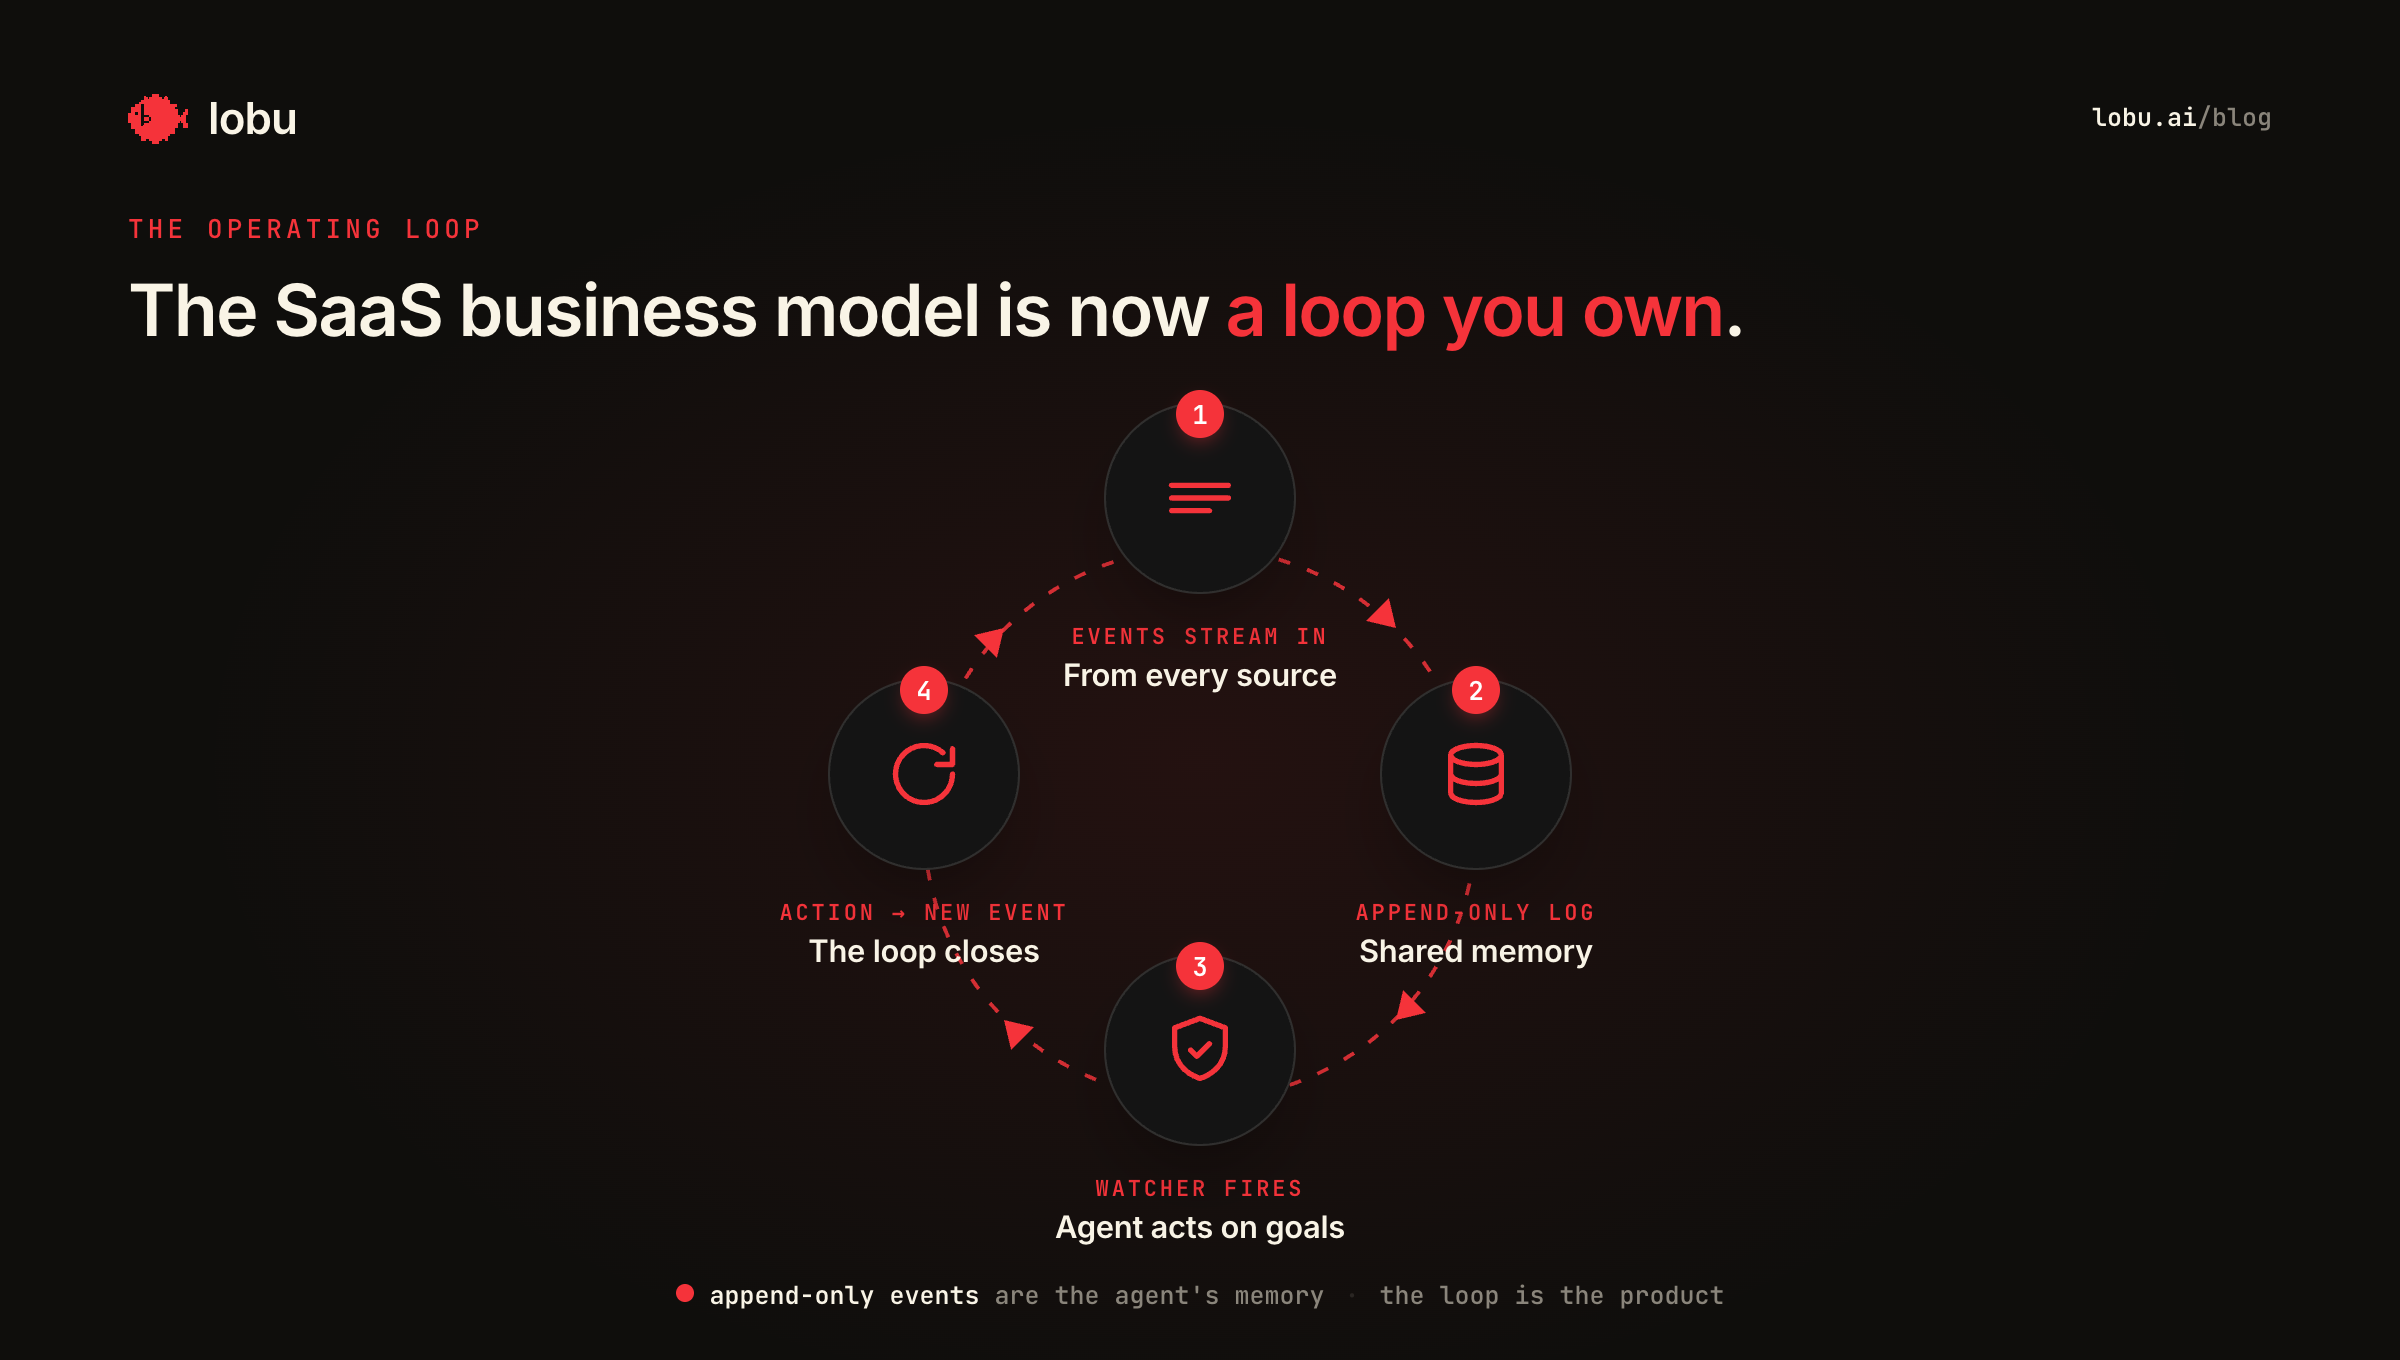
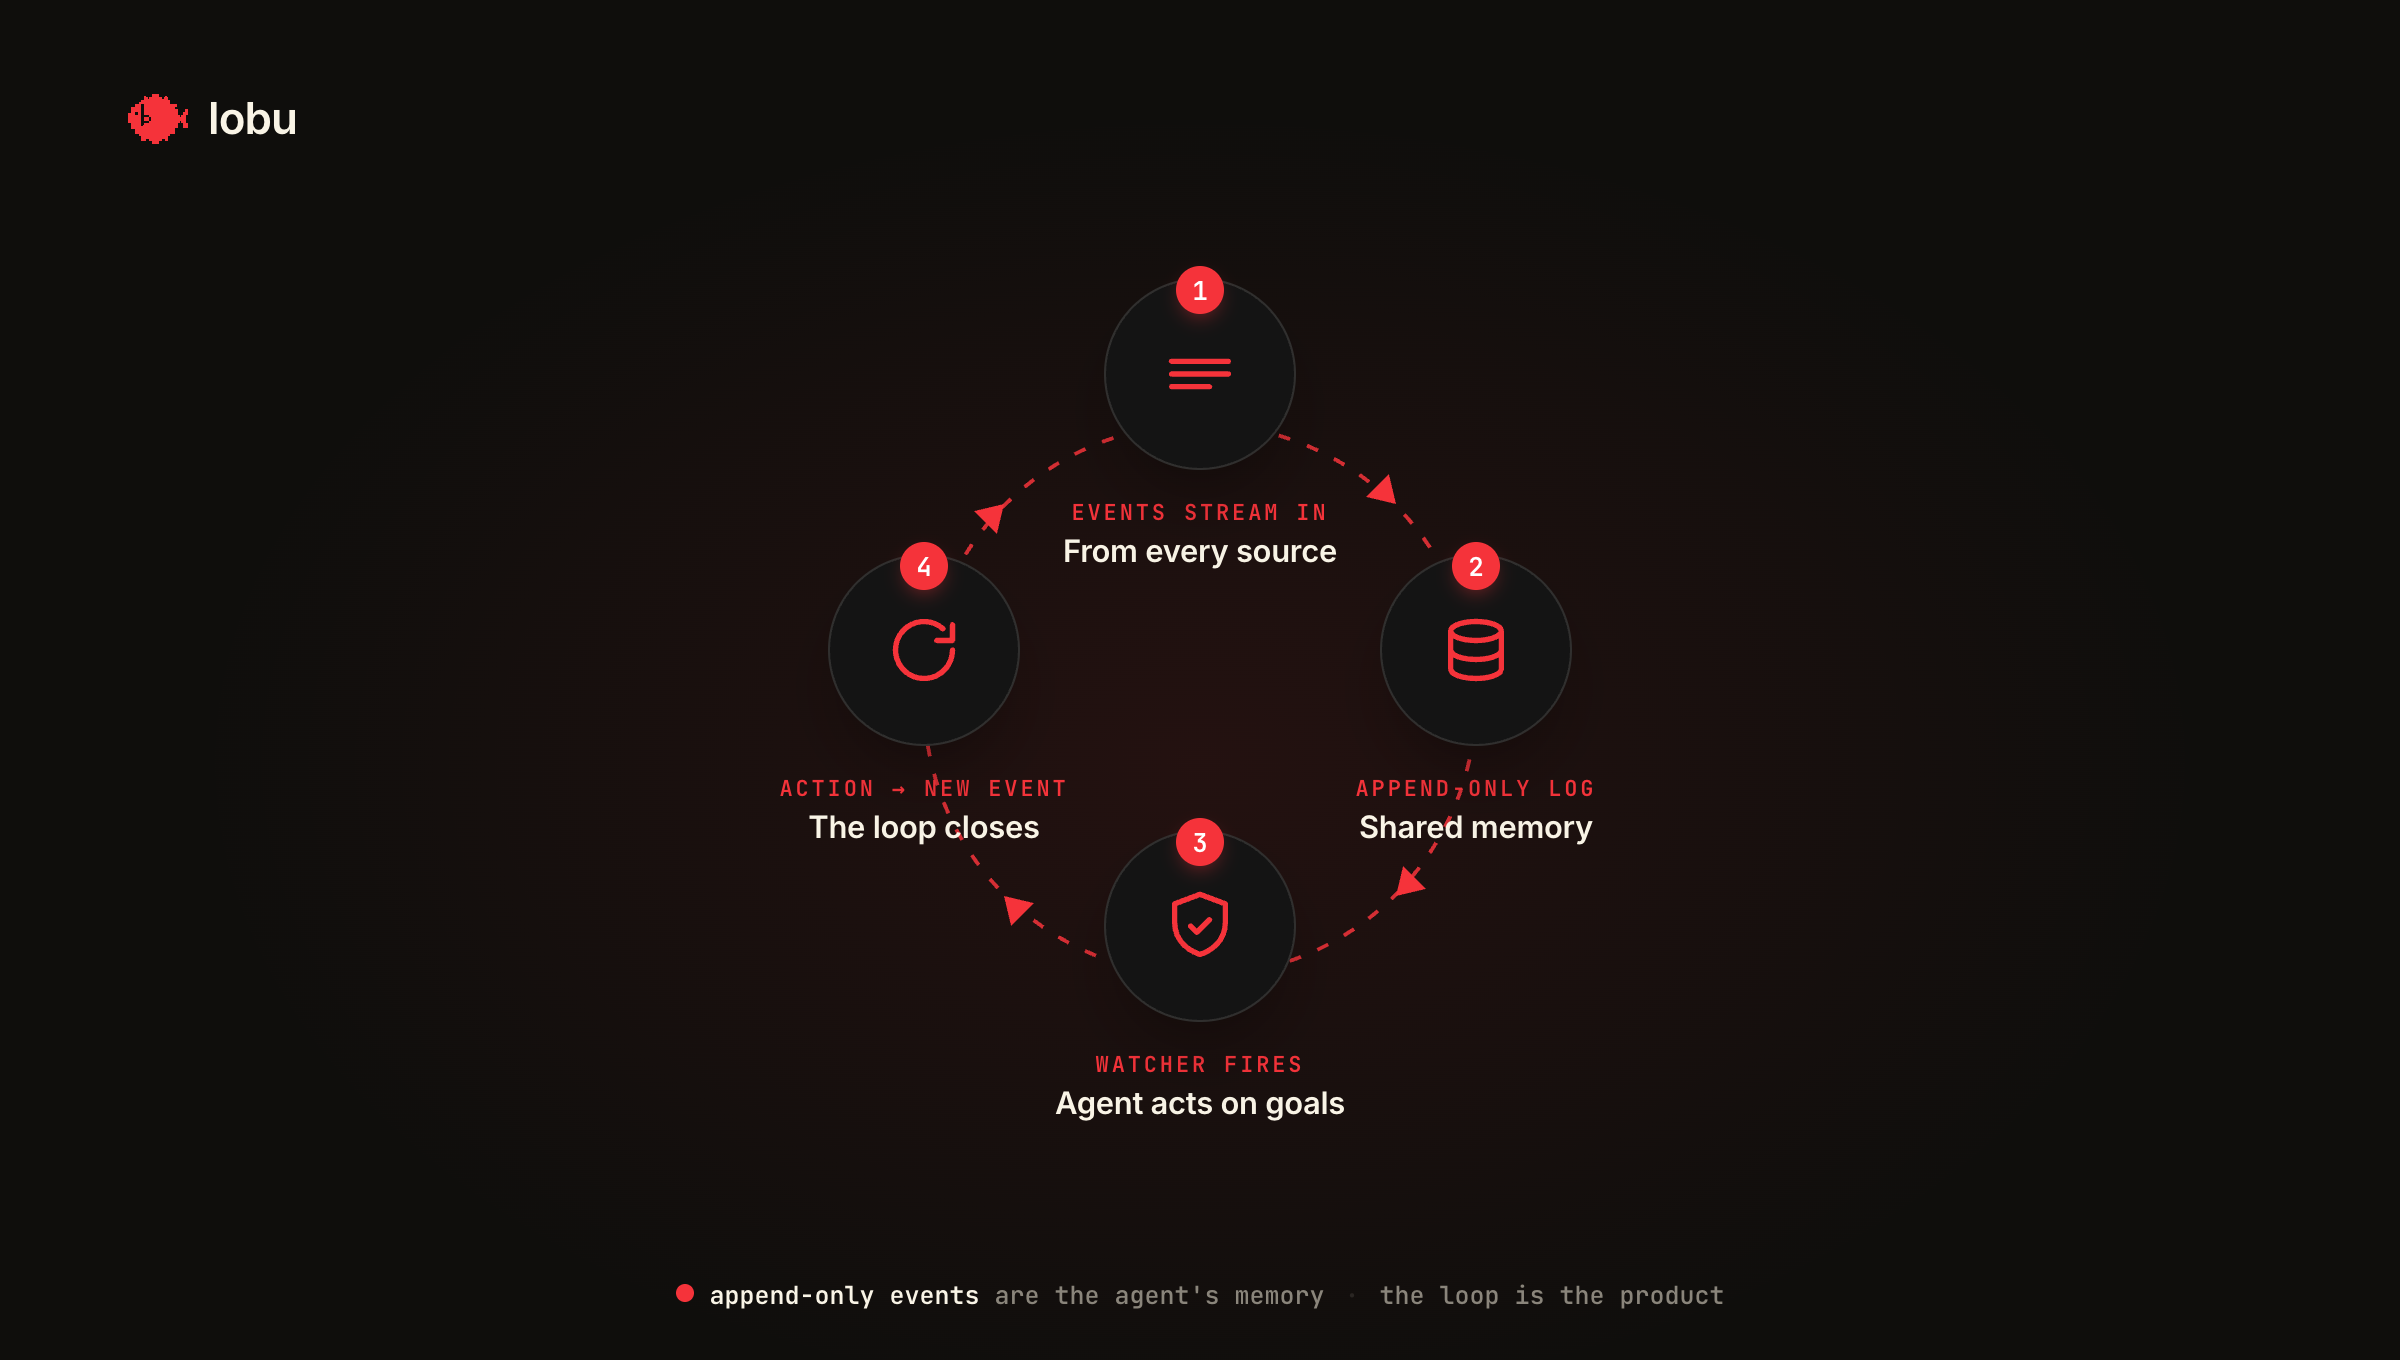
chore(og-assets): anchor OG-card nodes on the orbit ring
The node positioning mixed left/right calc with translate(-50%,-50%)
without accounting for element width or the SVG letterbox offset, so
WATCH/ACT discs floated off the ring (ACT ~86px left of its ring
point). SVG viewBox now matches the panel 1:1 and each disc centre
sits at its exact ring coordinate, 120° apart. Also drops unused CSS
vars/selectors. blog-og.png re-rendered.

diff --git a/og-assets/scene-blog/index.html b/og-assets/scene-blog/index.html
@@ -15,11 +15,8 @@
 
   :root {
     --bg: #0f0e0c;          /* deepest warm dark */
-    --surface: #141414;     /* terminal/code surface */
     --text: #f9f4e6;        /* warm light text */
     --muted: #8a857b;       /* muted warm */
-    --border: rgba(249,244,230,0.10); /* hairline */
-    --surface-dim: #1a1916; /* dim surface */
     --red: #f5333a;         /* accent */
     --code-bg: #141414;     /* terminal/code surface */
     --code-text: #f9f4e6;   /* warm code text */
@@ -29,7 +26,6 @@
   * { margin:0; padding:0; box-sizing:border-box; }
   html, body { width:1200px; height:630px; overflow:hidden; background:var(--bg); }
   body { font-family:"Inter", ui-sans-serif, system-ui, sans-serif; color:var(--text); -webkit-font-smoothing:antialiased; }
-  .mono { font-family:"JetBrains Mono", ui-monospace, monospace; }
   #stage { position:absolute; inset:0; }
 
   /* red glow pooling behind the panel (dark-theme depth) */
@@ -68,13 +64,15 @@
   .panel .titlebar .dot { width:11px; height:11px; border-radius:999px; background:rgba(249,244,230,0.18); }
   .panel .titlebar .file { margin-left:10px; font-family:"JetBrains Mono", ui-monospace, monospace; font-size:12px;
     color:var(--code-dim); letter-spacing:0.02em; }
-  .panel canvas, .panel .ringwrap { position:absolute; left:0; top:0; width:100%; height:100%; }
+  .panel .ringwrap { position:absolute; left:0; top:0; width:100%; height:100%; }
 
   /* orbit drawn as SVG on the dark panel */
   #ringPath { fill:none; stroke:rgba(245,51,58,0.55); stroke-width:1.8; stroke-dasharray:6 8; }
   #pellet { fill:var(--red); filter:drop-shadow(0 0 6px rgba(245,51,58,0.9)); }
 
-  .node { position:absolute; transform:translate(-50%,-50%); width:96px; text-align:center; }
+  /* node anchor = the DISC centre (fixed 64px-high box; the label overflows below),
+     so left/top can be set to exact ring coordinates. */
+  .node { position:absolute; transform:translate(-50%,-50%); width:96px; height:64px; text-align:center; }
   .disc { width:64px; height:64px; border-radius:999px; margin:0 auto; position:relative;
     background:rgba(249,244,230,0.04); border:1px solid rgba(249,244,230,0.14);
     display:flex; align-items:center; justify-content:center; }
@@ -112,34 +110,35 @@
       <span class="file">agent-loop.ts</span>
     </div>
     <div class="ringwrap">
-      <svg id="ring" viewBox="0 0 496 398" preserveAspectRatio="xMidYMid meet" style="position:absolute;inset:0;width:100%;height:100%;">
-        <!-- ring centred on panel body centre (~248, 230). radius ~118 -->
-        <path id="ringPath" d="M248 112 A118 118 0 1 1 247.99 112" />
+      <svg id="ring" viewBox="0 0 496 438" preserveAspectRatio="xMidYMid meet" style="position:absolute;inset:0;width:100%;height:100%;">
+        <!-- viewBox matches the panel box 1:1, so SVG coords == CSS px inside .ringwrap.
+             ring centred on the panel body centre (248, 250), radius 118 -->
+        <path id="ringPath" d="M248 132 A118 118 0 1 1 247.99 132" />
         <!-- pellet rides the ring; animated via GSAP rotation of #orbit group -->
-        <g id="orbit" transform="translate(248 230)">
+        <g id="orbit" transform="translate(248 250)">
           <circle id="pellet" cx="118" cy="0" r="6.5" />
         </g>
       </svg>
 
-      <!-- nodes positioned on the ring -->
-      <!-- WATCH top (248,112) -->
-      <div class="node" style="left:calc(50% + 0px); top:calc(58px + 54px);">
+      <!-- nodes: disc centres sit ON the ring, 120° apart (top, lower-right, lower-left) -->
+      <!-- WATCH top (248,132) -->
+      <div class="node" style="left:248px; top:132px;">
         <div class="disc"><span class="num">1</span>
           <svg viewBox="0 0 24 24" fill="none" stroke="#f5333a" stroke-width="1.7" stroke-linecap="round" stroke-linejoin="round"><path d="M2 12s3.5-7 10-7 10 7 10 7-3.5 7-10 7S2 12 2 12Z"/><circle cx="12" cy="12" r="3"/></svg>
           <span class="glow" id="g1"></span>
         </div>
         <div class="nl"><div class="e">WATCH</div><div class="d">every source</div></div>
       </div>
-      <!-- UNDERSTAND lower-right (~351, 296) -->
-      <div class="node" style="right:calc(50% - 188px); top:calc(58px + 238px);">
+      <!-- UNDERSTAND lower-right (350,309) -->
+      <div class="node" style="left:350px; top:309px;">
         <div class="disc"><span class="num">2</span>
           <svg viewBox="0 0 24 24" fill="none" stroke="#f5333a" stroke-width="1.7" stroke-linecap="round" stroke-linejoin="round"><ellipse cx="12" cy="6" rx="8" ry="3"/><path d="M4 6v12c0 1.66 3.58 3 8 3s8-1.34 8-3V6"/><path d="M4 12c0 1.66 3.58 3 8 3s8-1.34 8-3"/></svg>
           <span class="glow" id="g2"></span>
         </div>
         <div class="nl"><div class="e">UNDERSTAND</div><div class="d">shared memory</div></div>
       </div>
-      <!-- ACT lower-left (~145, 296) -->
-      <div class="node" style="left:calc(50% - 188px); top:calc(58px + 238px);">
+      <!-- ACT lower-left (146,309) -->
+      <div class="node" style="left:146px; top:309px;">
         <div class="disc"><span class="num">3</span>
           <svg viewBox="0 0 24 24" fill="none" stroke="#f5333a" stroke-width="1.7" stroke-linecap="round" stroke-linejoin="round"><path d="M12 2 20 5v6c0 5-3.5 8.5-8 10-4.5-1.5-8-5-8-10V5Z"/><path d="M9 12l2 2 4-4"/></svg>
           <span class="glow" id="g3"></span>
@@ -154,7 +153,7 @@
   window.__timelines = window.__timelines || {};
   const tl = gsap.timeline({ paused: true });
   // orbit the pellet around the ring centre (translate already centres #orbit at 248,230)
-  tl.to("#orbit", { duration: 5, ease: "none", rotation: 360, transformOrigin: "0 0", svgOrigin: "248 230" }, 0);
+  tl.to("#orbit", { duration: 5, ease: "none", rotation: 360, transformOrigin: "0 0", svgOrigin: "248 250" }, 0);
   function pulse(sel, at) {
     tl.to(sel, { opacity: 0.85, duration: 0.5, yoyo: true, repeat: 1, ease: "sine.inOut" }, at - 0.5);
   }

diff --git a/og-assets/scene-blog/loop.html b/og-assets/scene-blog/loop.html
@@ -15,8 +15,7 @@
 
   :root {
     --bg:#0f0e0c; --surface:#141414; --text:#f9f4e6; --muted:#8a857b;
-    --border:rgba(249,244,230,0.10); --surface-dim:#1a1916; --red:#f5333a;
-    --code-bg:#141414; --code-text:#f9f4e6; --code-dim:#8a857b;
+    --border:rgba(249,244,230,0.10); --red:#f5333a;
   }
   * { margin:0; padding:0; box-sizing:border-box; }
   html, body { width:1200px; height:680px; overflow:hidden; background:var(--bg); }
@@ -29,18 +28,9 @@
   .brand { position:absolute; top:46px; left:64px; display:inline-flex; align-items:center; gap:10px; }
   .brand .mark { width:30px; height:25px; }
   .brand .word { font-weight:600; font-size:22px; letter-spacing:-0.02em; color:var(--text); }
-  .crumb { position:absolute; top:50px; right:64px; font-family:"JetBrains Mono", ui-monospace, monospace;
-    font-size:12.5px; font-weight:500; color:var(--muted); }
-  .crumb b { color:var(--text); font-weight:600; }
 
-  .kicker { position:absolute; top:106px; left:64px; font-family:"JetBrains Mono", ui-monospace, monospace;
-    font-size:13px; font-weight:500; letter-spacing:0.16em; text-transform:uppercase; color:var(--red); }
-  h1 { position:absolute; top:136px; left:64px; width:1072px; text-align:left;
-    font-size:36px; font-weight:600; letter-spacing:-0.025em; line-height:1.08; color:var(--text); }
-  h1 .red { color:var(--red); }
-
-  /* ── the loop ──: ring centred at (600, 412), radius 150 */
-  #loop { position:absolute; left:600px; top:412px; width:0; height:0; }
+  /* ── the loop ──: ring centred at (600, 350), radius 138 */
+  #loop { position:absolute; left:600px; top:350px; width:0; height:0; }
   #ringSvg { position:absolute; left:-210px; top:-210px; width:420px; height:420px; pointer-events:none; overflow:visible; }
   #loopPath { fill:none; stroke:var(--red); stroke-width:1.9; stroke-dasharray:6 9; opacity:0.85; }
 
@@ -74,10 +64,6 @@
     <img class="mark" src="./assets/lobu-mark.svg" alt="" />
     <span class="word">lobu</span>
   </div>
-  <div class="crumb"><b>lobu.ai</b>/blog</div>
-
-  <div class="kicker">The operating loop</div>
-  <h1>The SaaS business model is now <span class="red">a loop you own</span>.</h1>
 
   <!-- circular loop: ring + 4 nodes at top / right / bottom / left -->
   <div id="loop">
